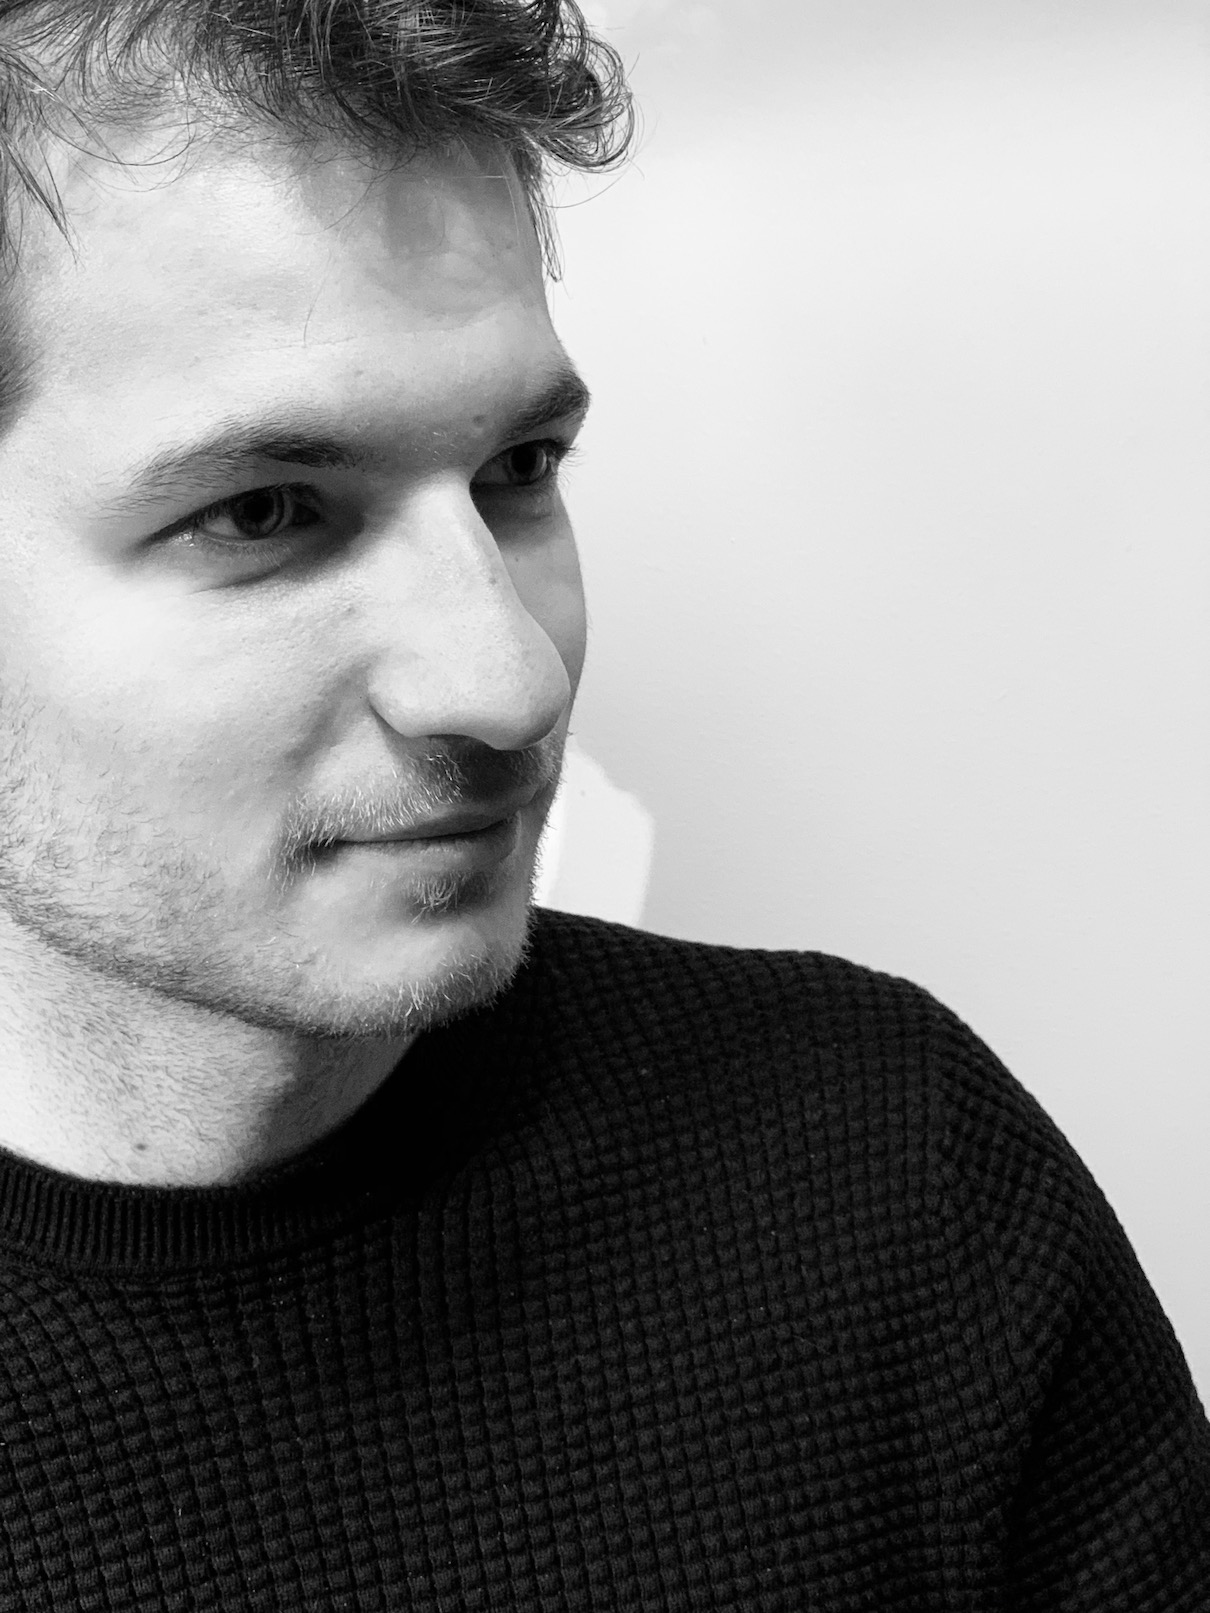
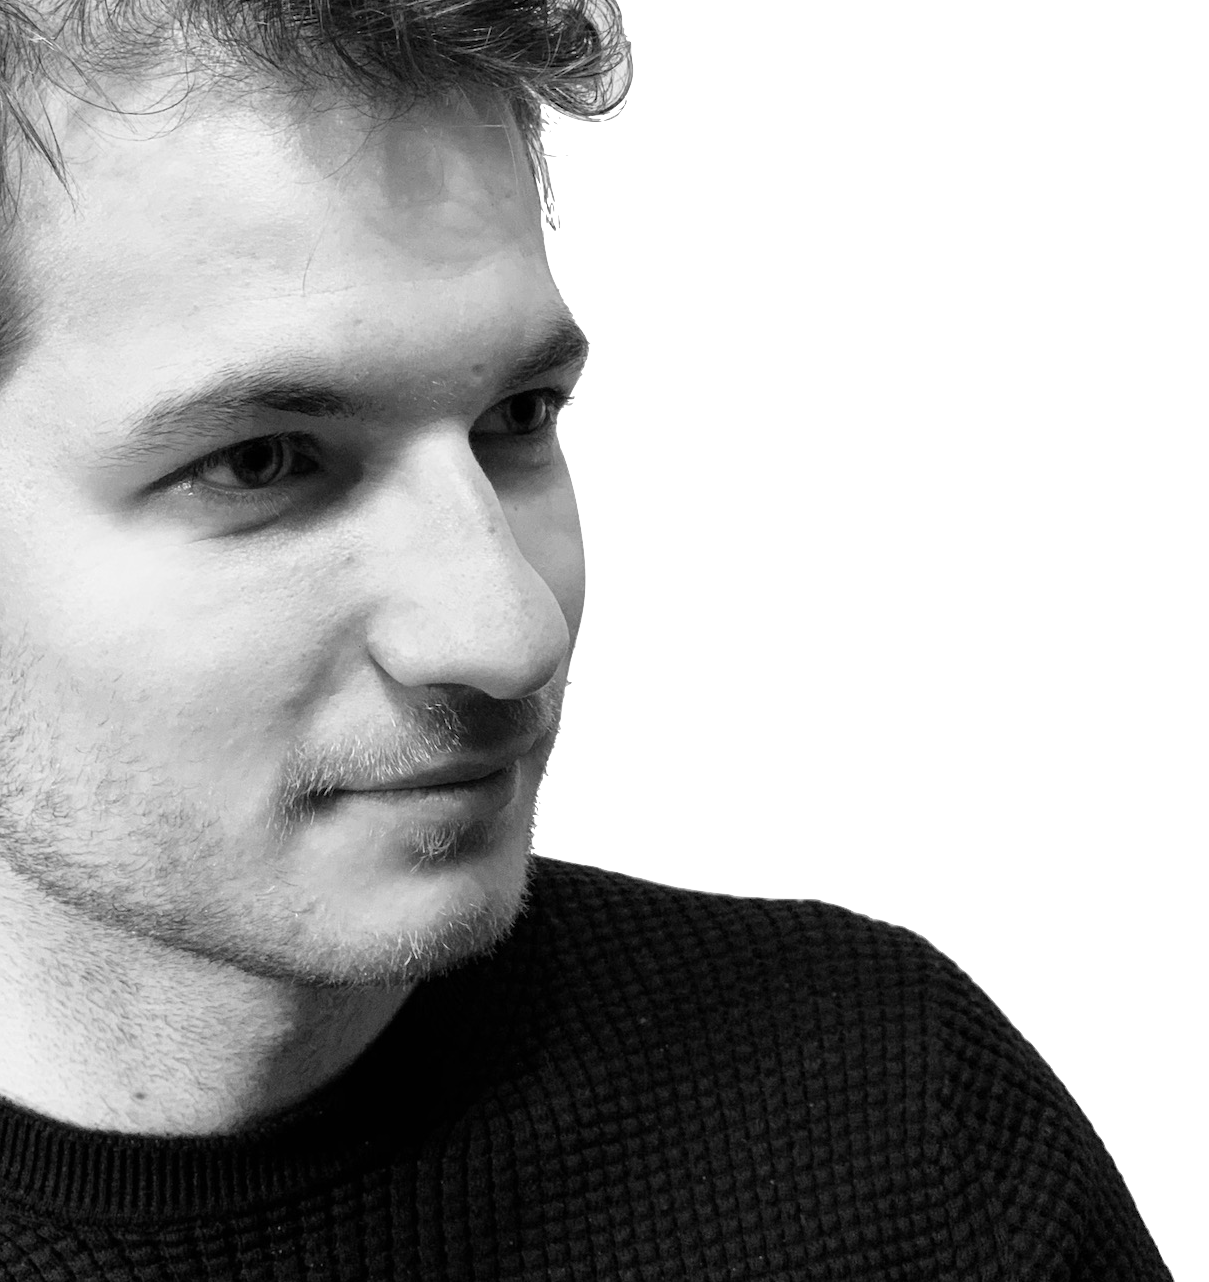
added style + html inclusion

diff --git a/index.html b/index.html
@@ -17,7 +17,7 @@
     <!-- Bootstrap CSS -->
     <link rel="stylesheet" href="https://stackpath.bootstrapcdn.com/bootstrap/4.4.1/css/bootstrap.min.css" integrity="sha384-Vkoo8x4CGsO3+Hhxv8T/Q5PaXtkKtu6ug5TOeNV6gBiFeWPGFN9MuhOf23Q9Ifjh" crossorigin="anonymous">
     <link rel="icon" href="./favicon.ico">
-    <!-- <link rel="stylesheet" href="./css/styles.css"> -->
+    <link rel="stylesheet" href="./css/styles2.css">
     <link href="https://fonts.googleapis.com/css?family=Merriweather&display=swap" rel="stylesheet">
     <title>Luc Bertin</title>
 </head>
@@ -53,7 +53,7 @@
             <div class="row">
                 <!--<div class="col-lg-2 spacingplease d-md-none d-lg-none"></div>-->
                 <div class="col-lg-7 col-md-6">
-                    <img src="./imgs/me2.png" alt="profile picture" align="left" width=50%>
+                    <img id="profile" src="./imgs/me2.png" alt="profile picture">
                     <div class="heading">
                         <h1 class="titlename">Luc Bertin</h1>
                         <a class="fab fa-linkedin-in" style="font-size: 1.25rem;" href="https://www.linkedin.com/in/luc-b-291904ab/"></a>

diff --git a/css/styles2.css b/css/styles2.css
@@ -1,0 +1,6 @@
+img#profile {
+	position: relative;
+    top: 0.5%;
+    float: left;
+    margin-right: 2%;
+}
